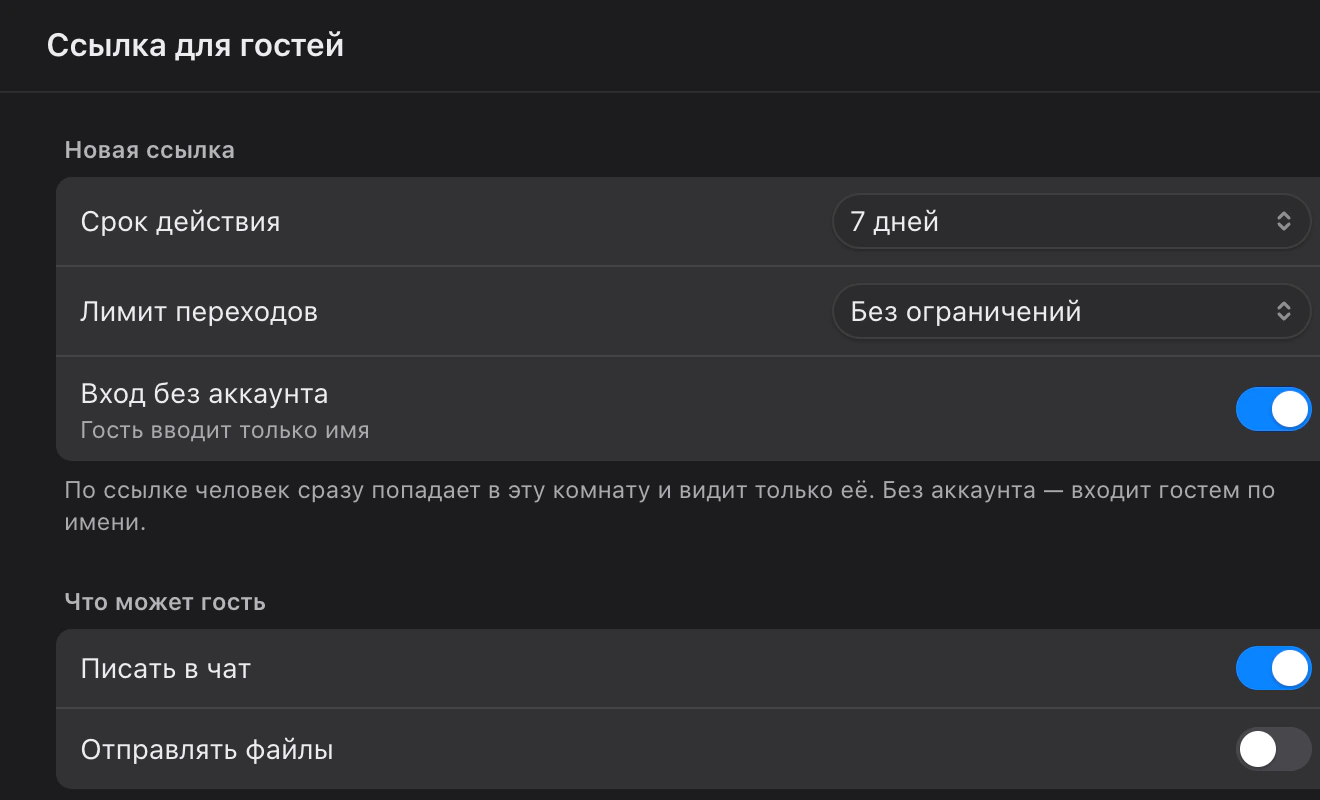
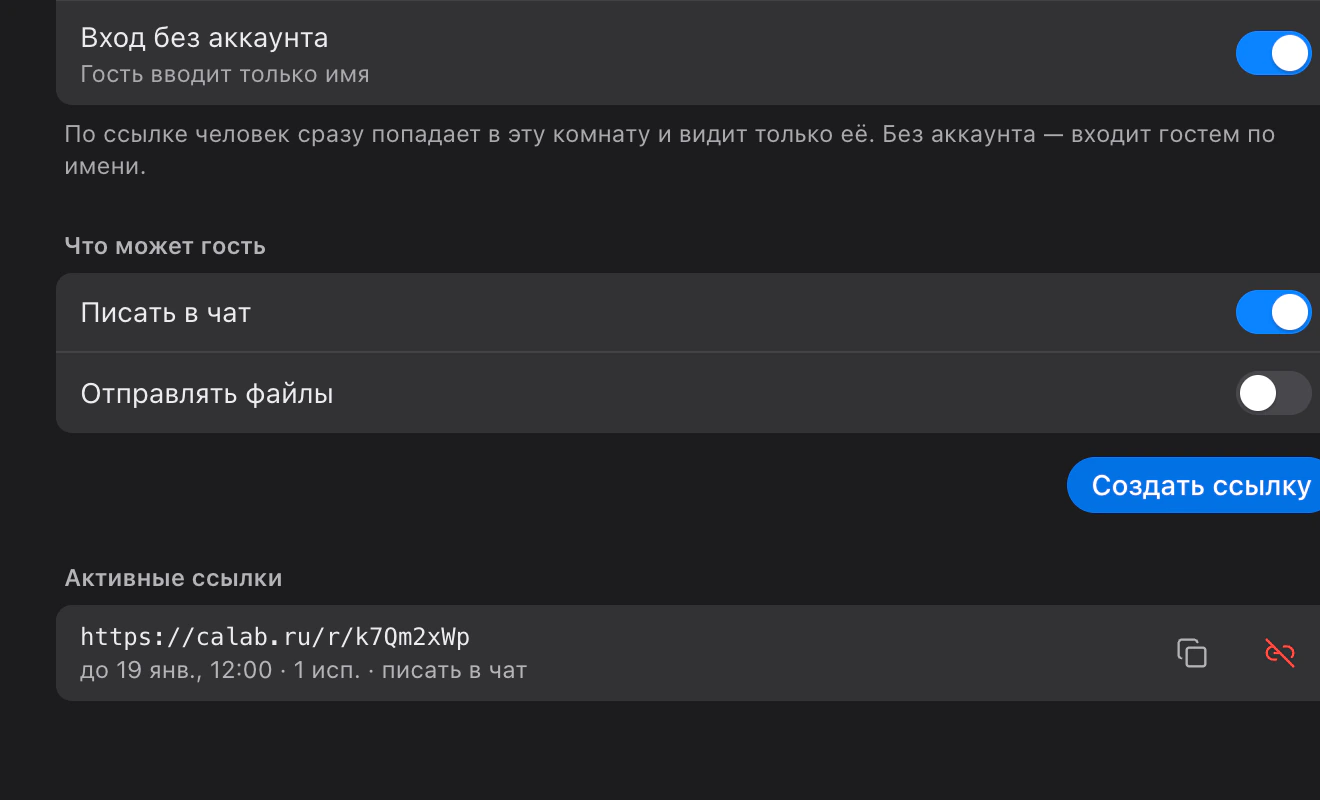
landing: images from the realistic 2x screenshots, stream-only crop

diff --git a/apps/landing/src/components/features.tsx b/apps/landing/src/components/features.tsx
@@ -21,19 +21,19 @@ const features: Feature[] = [
     icon: MonitorUp,
     title: 'Стрим экрана в AV1',
     text: '720p, 1080p или исходное разрешение. Статичный текст и код — 20–300 кбит/с, поэтому экран читается и на мобильном интернете. До трёх стримов в комнате.',
-    shot: { name: 'stream', alt: 'Голосовая комната «Переговорка» с участниками и идущим стримом экрана с меткой LIVE' },
+    shot: { name: 'stream', alt: 'Стрим экрана Веры Ким с меткой LIVE: слайд «Релиз 0.2» с чек-листом' },
   },
   {
     icon: MessagesSquare,
     title: 'Чат как в Telegram',
     text: 'Файлы, реакции, ответы, закрепы, упоминания и поиск. У каждой голосовой комнаты есть свой чат.',
-    shot: { name: 'chat', alt: 'Лента сообщений: форматирование, упоминание @here и поле ввода' },
+    shot: { name: 'chat', alt: 'Сообщение со ссылкой и карточкой превью, ниже — сообщение с картинкой' },
   },
   {
     icon: ShieldCheck,
     title: 'Роли, права и гостевые ссылки',
     text: 'Права на уровне пространства и комнаты. Гость входит по ссылке без аккаунта и видит только свою комнату.',
-    shot: { name: 'guests', alt: 'Создание гостевой ссылки: срок действия, лимит переходов, вход без аккаунта' },
+    shot: { name: 'guests', alt: 'Ссылка для гостей: вход без аккаунта, права гостя и активная ссылка calab.ru/r/…' },
   },
   {
     icon: Globe,
